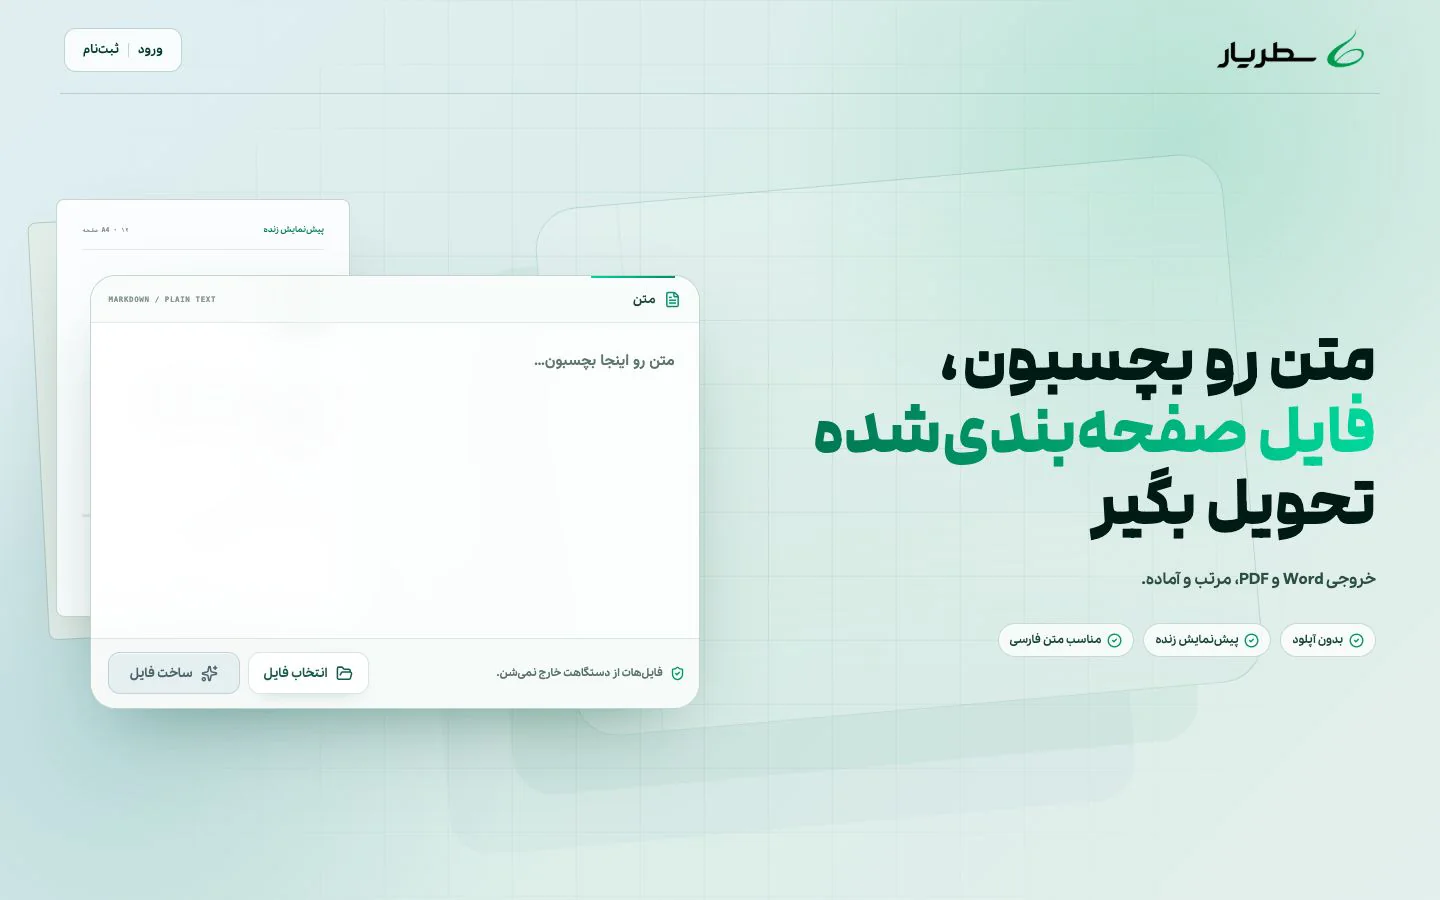
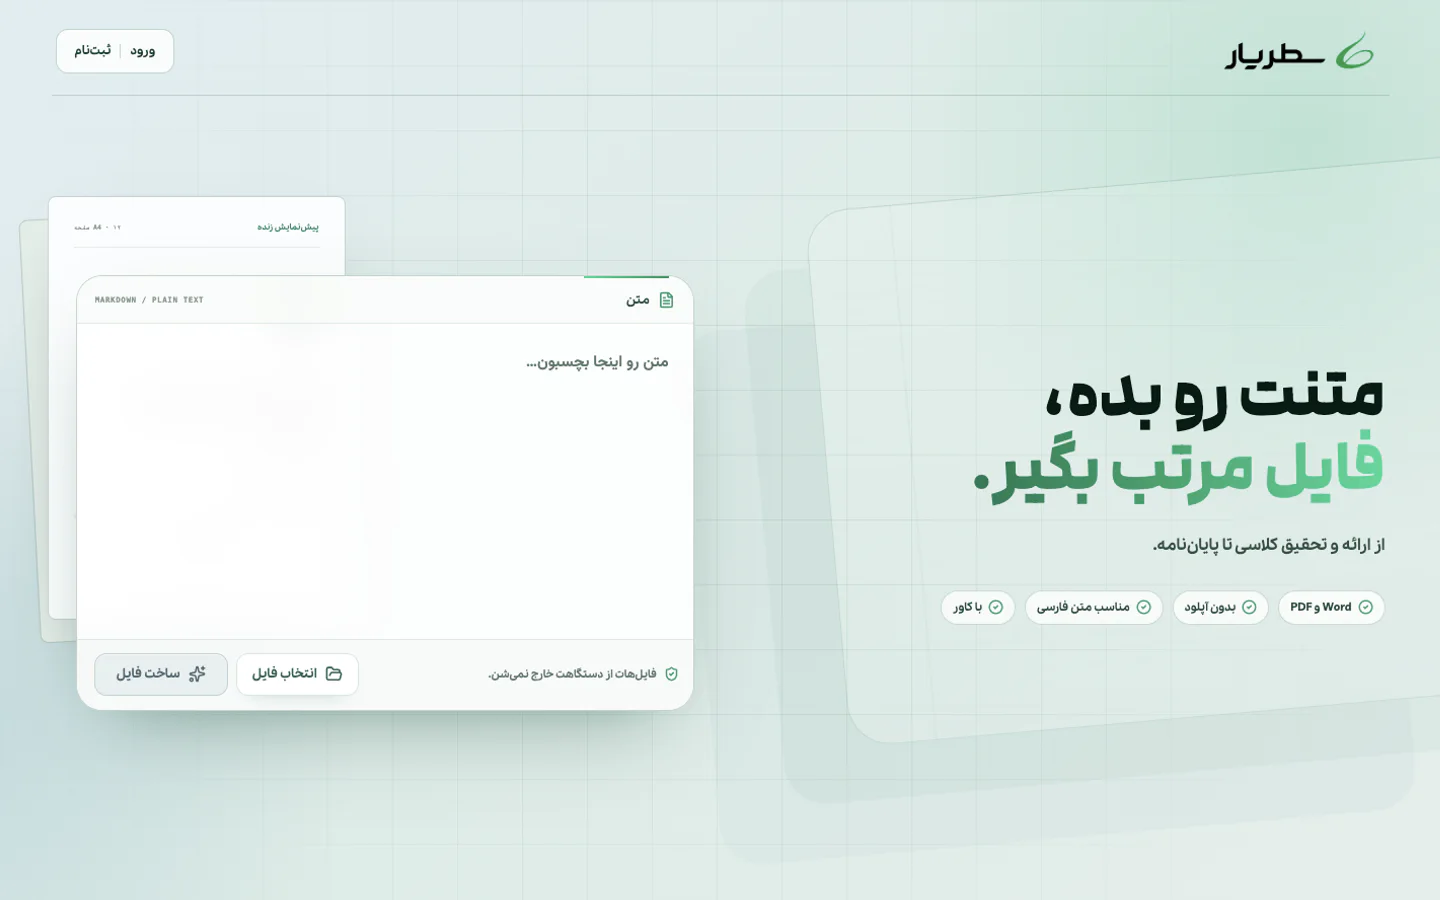
refine mobile layout and core stack

diff --git a/src/components/mobile-navigation/MenuButton.vue b/src/components/mobile-navigation/MenuButton.vue
@@ -1,25 +1,18 @@
 <template>
   <button
     type="button"
+    class="menu-trigger"
+    :class="{ 'is-open': isOpen }"
     :aria-label="isOpen ? 'Close navigation menu' : 'Open navigation menu'"
     :aria-expanded="isOpen"
     aria-controls="mobile-navigation-panel"
     @click="$emit('toggle')"
-    class="flex items-center justify-center px-1.5 transition-all duration-300"
   >
-    <div class="relative flex size-4 flex-col justify-between py-px">
-      <span
-        v-for="i in 3"
-        :key="i"
-        :class="[
-          ' left-0 h-0.5 w-full rounded-full transition-all duration-300',
-          'bg-gradient-to-r from-teal-400 via-teal-500 to-teal-500',
-          i === 1 && `${isOpen ? 'translate-y-1.5 rotate-45' : ''}`,
-          i === 2 && `${isOpen ? 'opacity-0' : ''}`,
-          i === 3 && `${isOpen ? '-translate-y-1.5 -rotate-45' : ''}`
-        ]"
-      />
-    </div>
+    <span class="menu-glyph" aria-hidden="true">
+      <span class="menu-line menu-line-top" />
+      <span class="menu-line menu-line-middle" />
+      <span class="menu-line menu-line-bottom" />
+    </span>
   </button>
 </template>
 
@@ -32,3 +25,91 @@ defineEmits<{
   toggle: []
 }>()
 </script>
+
+<style scoped>
+.menu-trigger {
+  position: relative;
+  display: grid;
+  width: 40px;
+  height: 40px;
+  padding: 0;
+  place-items: center;
+  border: 0;
+  border-radius: 50%;
+  background: transparent;
+  color: #e8f3f0;
+  cursor: pointer;
+}
+
+.menu-trigger:focus-visible {
+  outline: 2px solid rgba(94, 234, 212, 0.72);
+  outline-offset: 2px;
+}
+
+.menu-glyph {
+  position: relative;
+  display: block;
+  width: 21px;
+  height: 16px;
+}
+
+.menu-line {
+  position: absolute;
+  right: 0;
+  height: 1.5px;
+  border-radius: 999px;
+  background: currentColor;
+  transform-origin: center;
+  transition:
+    inset 280ms cubic-bezier(0.22, 1, 0.36, 1),
+    width 280ms cubic-bezier(0.22, 1, 0.36, 1),
+    opacity 160ms ease,
+    transform 280ms cubic-bezier(0.22, 1, 0.36, 1);
+}
+
+.menu-line-top {
+  top: 0;
+  width: 100%;
+}
+
+.menu-line-middle {
+  top: 50%;
+  width: 62%;
+  transform: translateY(-50%);
+}
+
+.menu-line-bottom {
+  right: auto;
+  bottom: 0;
+  left: 0;
+  width: 78%;
+}
+
+.is-open .menu-line-top,
+.is-open .menu-line-bottom {
+  top: 50%;
+  right: 0;
+  bottom: auto;
+  left: 0;
+  width: 100%;
+}
+
+.is-open .menu-line-top {
+  transform: translateY(-50%) rotate(45deg);
+}
+
+.is-open .menu-line-middle {
+  opacity: 0;
+  transform: translateY(-50%) scaleX(0);
+}
+
+.is-open .menu-line-bottom {
+  transform: translateY(-50%) rotate(-45deg);
+}
+
+@media (prefers-reduced-motion: reduce) {
+  .menu-line {
+    transition: none;
+  }
+}
+</style>

diff --git a/src/components/sections/TheHero.vue b/src/components/sections/TheHero.vue
@@ -37,11 +37,10 @@ const capabilities = [
           </h1>
         </div>
 
-        <div class="hero-body">
-          <p class="max-w-xl text-base leading-7 text-slate-300 sm:text-lg sm:leading-8">
-            I design and build complete web products—reliable Rails foundations, expressive Vue
-            interfaces, and the details that make both feel effortless.
-          </p>
+		<div class="hero-body">
+		  <p class="max-w-xl text-base leading-7 text-slate-300 sm:text-lg sm:leading-8">
+			I build complete web products, from reliable backends to polished interfaces.
+		  </p>
 
           <div class="mt-9 flex flex-wrap gap-3">
             <a
@@ -144,7 +143,7 @@ const capabilities = [
             <a
               href="/emad_rahimi_cv.pdf"
               download
-              class="group mt-5 flex items-center justify-between rounded-xl border border-white/10 bg-white/[0.035] px-4 py-3 text-sm font-semibold text-slate-200 transition hover:border-teal-200/30 hover:bg-teal-300/[0.08] hover:text-white focus-visible:outline focus-visible:outline-2 focus-visible:outline-offset-4 focus-visible:outline-teal-200 sm:mt-6 sm:py-3.5"
+              class="group mt-5 flex items-center justify-between rounded-xl border border-teal-200/25 bg-gradient-to-r from-teal-300/[0.06] to-indigo-400/[0.04] px-4 py-3 text-sm font-semibold text-slate-200 shadow-[inset_0_1px_rgba(255,255,255,0.06),0_12px_30px_rgba(45,212,191,0.06)] transition hover:border-teal-200/40 hover:from-teal-300/[0.1] hover:to-indigo-400/[0.07] hover:text-white focus-visible:outline focus-visible:outline-2 focus-visible:outline-offset-4 focus-visible:outline-teal-200 sm:mt-6 sm:py-3.5"
             >
               Download CV
               <svg
@@ -209,8 +208,8 @@ const capabilities = [
   display: grid;
   grid-template-areas:
     'intro'
-    'console'
-    'body';
+    'body'
+    'console';
   gap: 2.5rem;
   align-items: center;
 }
@@ -316,6 +315,23 @@ const capabilities = [
 @media (max-width: 1023px) {
   .console-panel {
     transform: none;
+  }
+}
+
+@media (max-width: 639px) {
+  .hero-surface {
+    background:
+      radial-gradient(circle at 72% 28%, rgba(20, 184, 166, 0.11), transparent 24rem),
+      radial-gradient(circle at 88% 84%, rgba(124, 58, 237, 0.11), transparent 26rem),
+      linear-gradient(145deg, #020611 0%, #04101c 52%, #050816 100%);
+  }
+
+  .hero-beam {
+    background: linear-gradient(to right, transparent, rgba(94, 234, 212, 0.045), transparent);
+  }
+
+  .hero-orbit {
+    border-color: rgba(94, 234, 212, 0.055);
   }
 }
 

diff --git a/src/ui/base/IconSprite.vue b/src/ui/base/IconSprite.vue
@@ -166,6 +166,32 @@
       />
     </symbol>
 
+    <symbol
+      id="icon-react"
+      viewBox="0 0 24 24"
+      fill="none"
+      stroke="currentColor"
+      stroke-width="1.5"
+    >
+      <circle cx="12" cy="12" r="2" fill="currentColor" stroke="none" />
+      <ellipse cx="12" cy="12" rx="10" ry="4" />
+      <ellipse cx="12" cy="12" rx="10" ry="4" transform="rotate(60 12 12)" />
+      <ellipse cx="12" cy="12" rx="10" ry="4" transform="rotate(120 12 12)" />
+    </symbol>
+
+    <symbol
+      id="icon-svelte"
+      viewBox="0 0 24 24"
+      fill="none"
+      stroke="currentColor"
+      stroke-width="2.2"
+      stroke-linecap="round"
+      stroke-linejoin="round"
+    >
+      <path d="M17 5.3a6.1 6.1 0 0 0-7.3.8L6.6 9.2a2.9 2.9 0 0 0 .5 4.5 3.2 3.2 0 0 0 4-.4l3-3" />
+      <path d="M7 18.7a6.1 6.1 0 0 0 7.3-.8l3.1-3.1a2.9 2.9 0 0 0-.5-4.5 3.2 3.2 0 0 0-4 .4l-3 3" />
+    </symbol>
+
     <symbol id="icon-typescript" viewBox="0 0 24 24">
       <path
         fill="currentColor"

diff --git a/src/ui/SkillCard.vue b/src/ui/SkillCard.vue
@@ -1,7 +1,7 @@
 <script setup lang="ts">
 import BaseIcon from '@/ui/base/BaseIcon.vue'
 
-type ColorScheme = 'red' | 'green' | 'blue' | 'cyan'
+type ColorScheme = 'red' | 'green' | 'blue' | 'cyan' | 'orange'
 
 defineProps<{
   title: string
@@ -11,16 +11,17 @@ defineProps<{
 }>()
 
 const accents = {
-  red: 'text-rose-300 bg-rose-400/10 border-rose-400/15',
-  green: 'text-emerald-300 bg-emerald-400/10 border-emerald-400/15',
-  blue: 'text-blue-300 bg-blue-400/10 border-blue-400/15',
-  cyan: 'text-cyan-300 bg-cyan-400/10 border-cyan-400/15'
+  red: 'text-rose-300 bg-rose-400/15 border-rose-400/25',
+  green: 'text-emerald-300 bg-emerald-400/15 border-emerald-400/25',
+  blue: 'text-blue-300 bg-blue-400/15 border-blue-400/25',
+  cyan: 'text-cyan-300 bg-cyan-400/15 border-cyan-400/25',
+  orange: 'text-orange-300 bg-orange-400/15 border-orange-400/25'
 } as const
 </script>
 
 <template>
   <article
-    class="group flex min-h-32 flex-col justify-between rounded-2xl border border-white/[0.12] bg-[#091526] p-4 shadow-lg shadow-black/10 transition-colors duration-300 hover:border-white/20 hover:bg-[#0d1d31] sm:p-5"
+    class="group flex min-h-32 flex-col justify-between rounded-2xl border border-white/[0.16] bg-[#0b192b] p-4 shadow-lg shadow-black/10 transition-colors duration-300 hover:border-white/25 hover:bg-[#102238] sm:p-5"
   >
     <div
       class="flex size-10 items-center justify-center rounded-xl border"
@@ -29,8 +30,8 @@ const accents = {
       <BaseIcon :name="iconName" size="20px" />
     </div>
     <div class="mt-5">
-      <h4 class="text-sm font-semibold text-slate-100 sm:text-base">{{ title }}</h4>
-      <p class="mt-0.5 text-xs text-slate-300">{{ description }}</p>
+      <h4 class="text-sm font-semibold text-white sm:text-base">{{ title }}</h4>
+      <p class="mt-0.5 text-xs text-slate-200">{{ description }}</p>
     </div>
   </article>
 </template>

diff --git a/src/components/sections/TheAbout.vue b/src/components/sections/TheAbout.vue
@@ -15,7 +15,9 @@ const skills = [
   { title: 'Ruby on Rails', description: 'Systems & APIs', iconName: 'rails', variant: 'red' },
   { title: 'Vue.js', description: 'Product interfaces', iconName: 'vue', variant: 'green' },
   { title: 'TypeScript', description: 'Safer frontends', iconName: 'typescript', variant: 'blue' },
-  { title: 'PostgreSQL', description: 'Durable data', iconName: 'postgresql', variant: 'cyan' }
+  { title: 'PostgreSQL', description: 'Durable data', iconName: 'postgresql', variant: 'cyan' },
+  { title: 'React', description: 'Components', iconName: 'react', variant: 'cyan' },
+  { title: 'Svelte', description: 'Lean web products', iconName: 'svelte', variant: 'orange' }
 ] as const
 </script>
 
@@ -38,7 +40,7 @@ const skills = [
       <FadeUpOnScroll :delay="100">
         <div class="grid items-stretch gap-5 lg:grid-cols-[1.15fr_0.85fr]">
           <article
-            class="relative overflow-hidden rounded-[2rem] border border-cyan-200/15 bg-[#091527]/95 p-6 shadow-[0_24px_70px_rgba(0,0,0,0.35)] sm:p-9"
+            class="relative overflow-hidden rounded-[2rem] border border-cyan-200/20 bg-[#0a182a]/95 p-6 shadow-[0_24px_70px_rgba(0,0,0,0.35)] sm:p-9"
           >
             <div
               class="absolute inset-x-0 top-0 h-1 bg-gradient-to-r from-cyan-300 via-blue-400 to-transparent"
@@ -51,9 +53,9 @@ const skills = [
             <div class="relative flex h-full flex-col justify-between">
               <div>
                 <h3
-                  class="max-w-xl font-display text-3xl font-semibold leading-tight tracking-[-0.04em] text-white sm:text-5xl"
+                  class="mx-auto max-w-xl text-center font-display text-3xl font-semibold leading-tight tracking-[-0.04em] text-white sm:mx-0 sm:text-left sm:text-5xl"
                 >
-                  I build web products end to end.
+                  I build web products<span class="block sm:inline"> end to end.</span>
                 </h3>
                 <p class="mt-5 max-w-xl text-base leading-7 text-slate-300 sm:text-lg">
                   Rails on the backend, Vue in the browser, and close attention to everything people
@@ -64,7 +66,7 @@ const skills = [
               <div class="mt-10 grid gap-4 border-t border-white/10 pt-6 sm:grid-cols-3">
                 <div v-for="item in capabilities" :key="item.title">
                   <h4 class="text-sm font-semibold text-white">{{ item.title }}</h4>
-                  <p class="mt-1 text-sm leading-5 text-slate-400">{{ item.description }}</p>
+                  <p class="mt-1 text-sm leading-5 text-slate-300">{{ item.description }}</p>
                 </div>
               </div>
             </div>
@@ -79,7 +81,7 @@ const skills = [
           <h3 class="mb-6 font-display text-2xl font-semibold tracking-tight text-white">
             Core stack
           </h3>
-          <div class="grid grid-cols-2 gap-3 lg:grid-cols-4">
+          <div class="grid grid-cols-2 gap-3 sm:grid-cols-3 lg:grid-cols-6">
             <SkillCard v-for="skill in skills" :key="skill.title" v-bind="skill" />
           </div>
         </div>

diff --git a/src/components/sections/TheProjects.vue b/src/components/sections/TheProjects.vue
@@ -89,10 +89,10 @@ const filteredProjects = computed<Project[]>(() => {
                 fetchpriority="low"
                 class="absolute inset-0 size-full object-cover object-top saturate-[1.05] transition-transform duration-500 group-hover:scale-[1.025]"
               />
-              <div
-                class="absolute inset-0 bg-gradient-to-t from-[#081322]/75 via-transparent to-black/10"
-                aria-hidden="true"
-              />
+			  <div
+				class="absolute inset-0 bg-slate-950/15"
+				aria-hidden="true"
+			  />
               <div class="absolute left-4 top-4 flex items-center gap-2">
                 <span
                   v-if="index === 0"

diff --git a/src/ui/base/HighlightGrid.vue b/src/ui/base/HighlightGrid.vue
@@ -9,20 +9,20 @@ const highlights = [
 
 <template>
   <aside
-    class="grid min-h-[25rem] grid-cols-2 gap-px overflow-hidden rounded-[2rem] border border-white/[0.13] bg-white/[0.12] shadow-[0_24px_70px_rgba(0,0,0,0.35)]"
+    class="grid min-h-[25rem] grid-cols-2 gap-px overflow-hidden rounded-[2rem] border border-white/[0.16] bg-white/[0.16] shadow-[0_24px_70px_rgba(0,0,0,0.35)]"
     aria-label="Areas of focus"
   >
     <div
       v-for="item in highlights"
       :key="item.number"
-      class="group relative flex flex-col justify-between overflow-hidden bg-[#091526] p-5 transition-colors duration-300 hover:bg-[#0d1d31] sm:p-6"
+      class="group relative flex flex-col justify-between overflow-hidden bg-[#0b192b] p-5 transition-colors duration-300 hover:bg-[#102238] sm:p-6"
     >
       <div
         class="absolute -right-12 -top-12 size-28 rounded-full bg-cyan-400/[0.06] blur-2xl transition-opacity group-hover:opacity-100"
         aria-hidden="true"
       />
       <span
-        class="relative font-display text-3xl font-semibold tracking-[-0.06em] text-cyan-200/75 sm:text-4xl"
+        class="relative font-display text-3xl font-semibold tracking-[-0.06em] text-cyan-200/85 sm:text-4xl"
       >
         {{ item.number }}
       </span>
@@ -31,7 +31,7 @@ const highlights = [
         <h3 class="font-display text-base font-semibold text-slate-100 sm:text-lg">
           {{ item.title }}
         </h3>
-        <p class="mt-1 text-xs leading-5 text-slate-300 sm:text-sm">{{ item.detail }}</p>
+        <p class="mt-1 text-xs leading-5 text-slate-200 sm:text-sm">{{ item.detail }}</p>
       </div>
     </div>
   </aside>

diff --git a/src/components/sections/TheFooter.vue b/src/components/sections/TheFooter.vue
@@ -1,6 +1,4 @@
 <script setup lang="ts">
-const year = new Date().getFullYear()
-
 const links = [
   { label: 'About', href: '#about' },
   { label: 'Work', href: '#projects' },
@@ -77,9 +75,7 @@ const links = [
           </a>
         </nav>
 
-        <p class="font-mono text-[10px] tracking-[0.08em] text-slate-400 uppercase">
-          © {{ year }} · Iran
-        </p>
+        <p class="font-mono text-[10px] tracking-[0.08em] text-slate-400 uppercase">© 2026</p>
       </div>
     </div>
   </footer>

diff --git a/src/stores/phaseStore.ts b/src/stores/phaseStore.ts
@@ -85,7 +85,7 @@ const phasesContent = ref<Record<PhaseId, PhaseDetails>>({
       },
       {
         title: 'React',
-        status: 'Not Started',
+        status: 'In Progress',
         description: 'React fundamentals, hooks, and state management patterns',
         technologies: ['React', 'Redux', 'Hooks']
       },